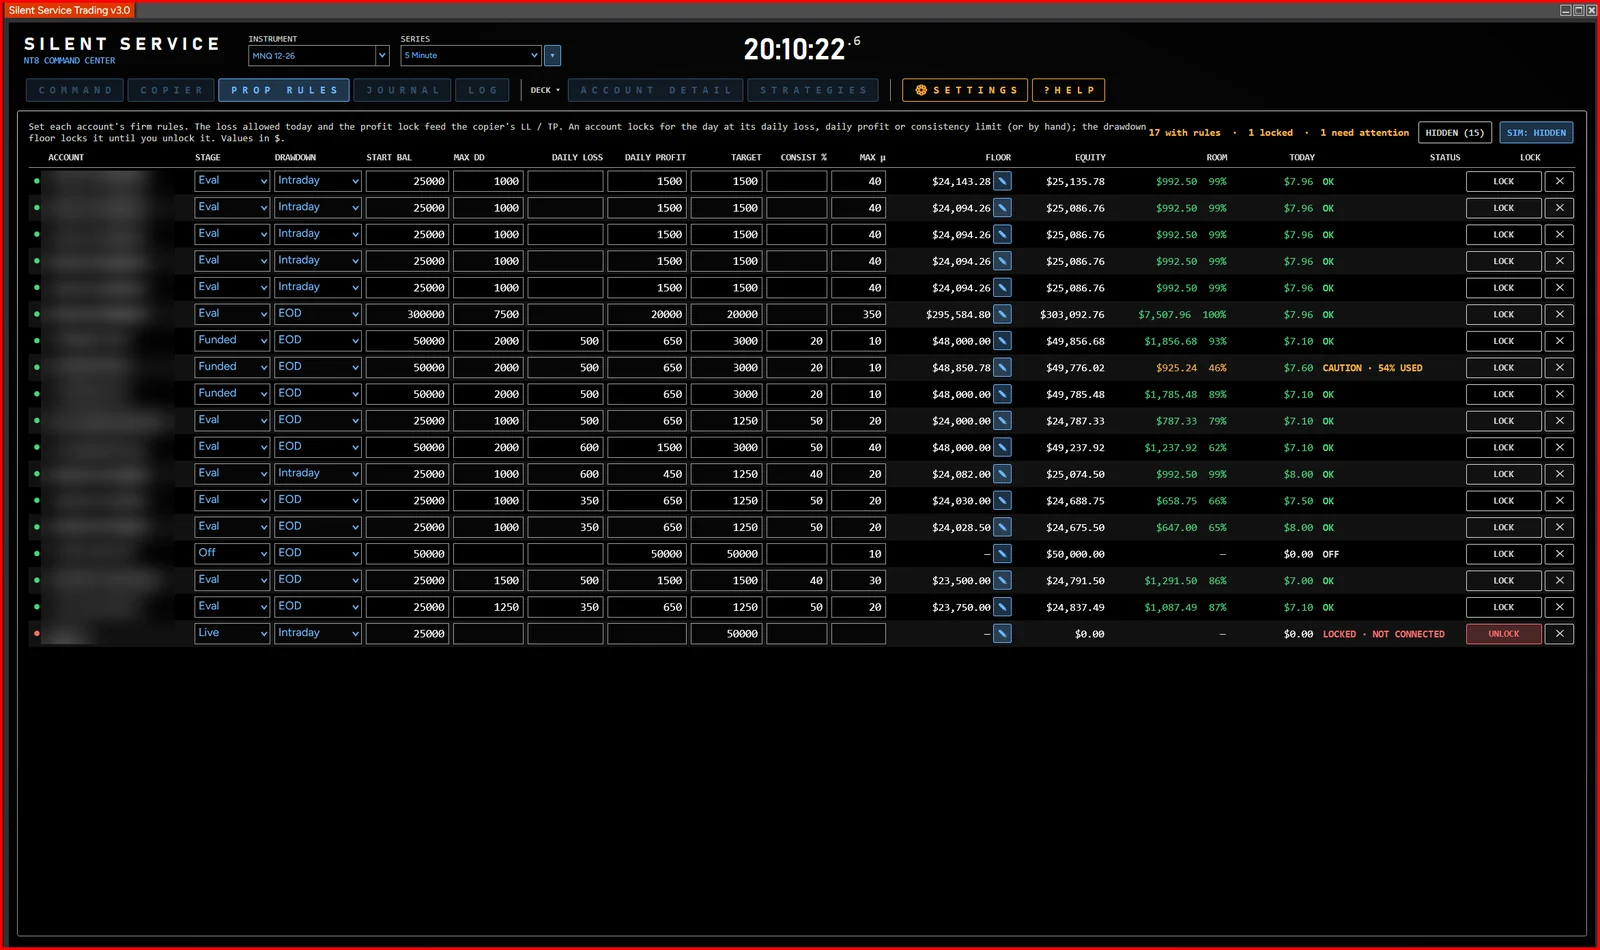
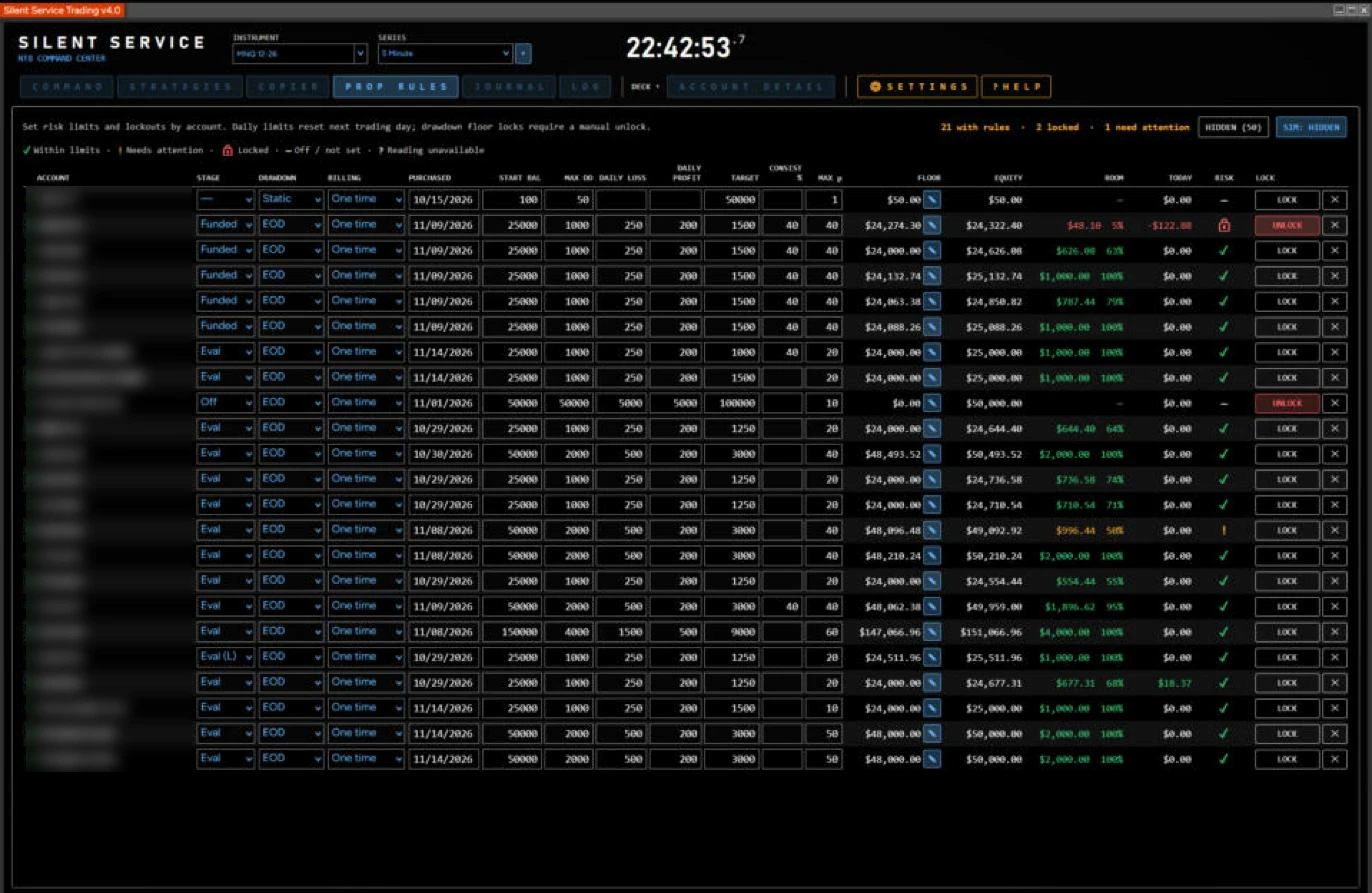
New PROP RULES screenshot (account numbers blurred)
Claude-Session: https://claude.ai/code/session_01CW6AG73K3NvifGMNTorxUc

Changed region(s): [[0.0, 0.0, 1.0, 1.0]]

diff --git a/index.html b/index.html
@@ -151,7 +151,7 @@
         </ul>
       </div>
 <figure class="shot shot-real">
-  <img src="/assets/img/cc-monitor.webp" alt="Prop Rules tab: stage, drawdown, daily limits, room left and status for every account (account names blurred)" width="1600" height="950" loading="lazy" decoding="async">
+  <img src="/assets/img/cc-monitor.webp" alt="Prop Rules tab: stage, drawdown, daily limits, room left and status for every account (account names blurred)" width="1372" height="893" loading="lazy" decoding="async">
 </figure>
     </div>
 
